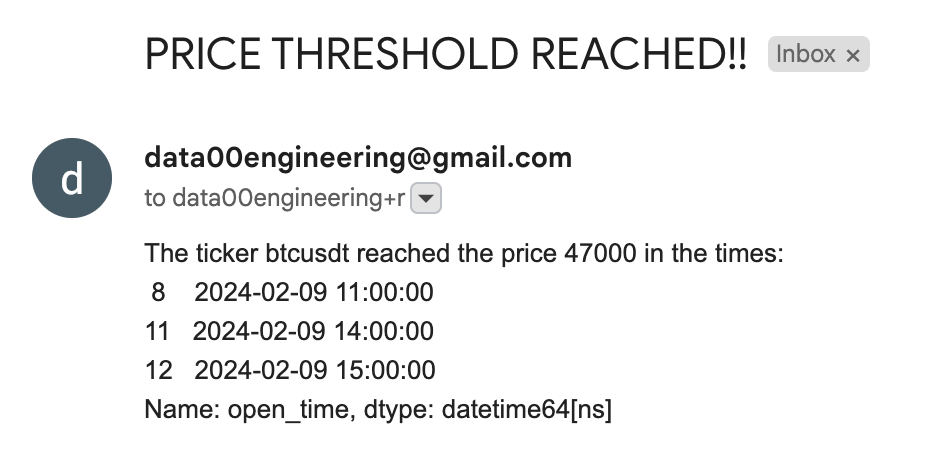
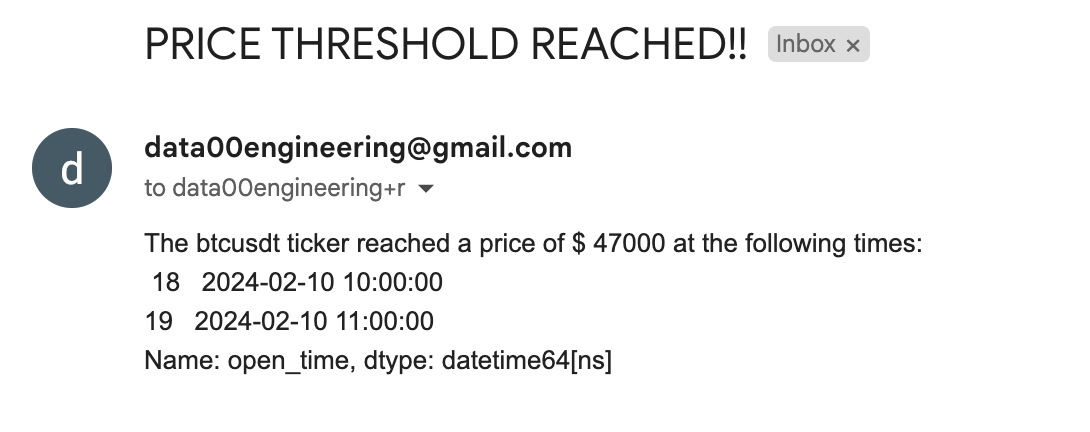
Fixed alert message

Changed region(s): [[0.1245, 0.5116, 0.8401, 0.9028], [0.0311, 0.2708, 0.6223, 0.4815], [0.1245, 0.0602, 0.9335, 0.1505]]

diff --git a/dags/etl_btcusdt.py b/dags/etl_btcusdt.py
@@ -53,10 +53,9 @@ def send_email(ti):
     output = filter_by_threshold(input_file=input_file, threshold=price_threshold)
     print(f"NOTIFICATIONS: FOUND {len(output)} WHERE PRICE THRESHOLD HAS BEEN REACHED")
     if not output.empty:
-        send_email_from_gmail(body=f'The ticker {ticker} reached the price {price_threshold} in the times: \n {pd.to_datetime(output["open_time"], unit="ms")}', 
+        send_email_from_gmail(body=f'The {ticker} ticker reached a price of $ {price_threshold} at the following times: \n {pd.to_datetime(output["open_time"], unit="ms")}', 
                               subject=f'PRICE THRESHOLD REACHED!!')
         
-
 
 with DAG(dag_id='etl_btc',
         description='Dag for btcusdt etl from binance',
